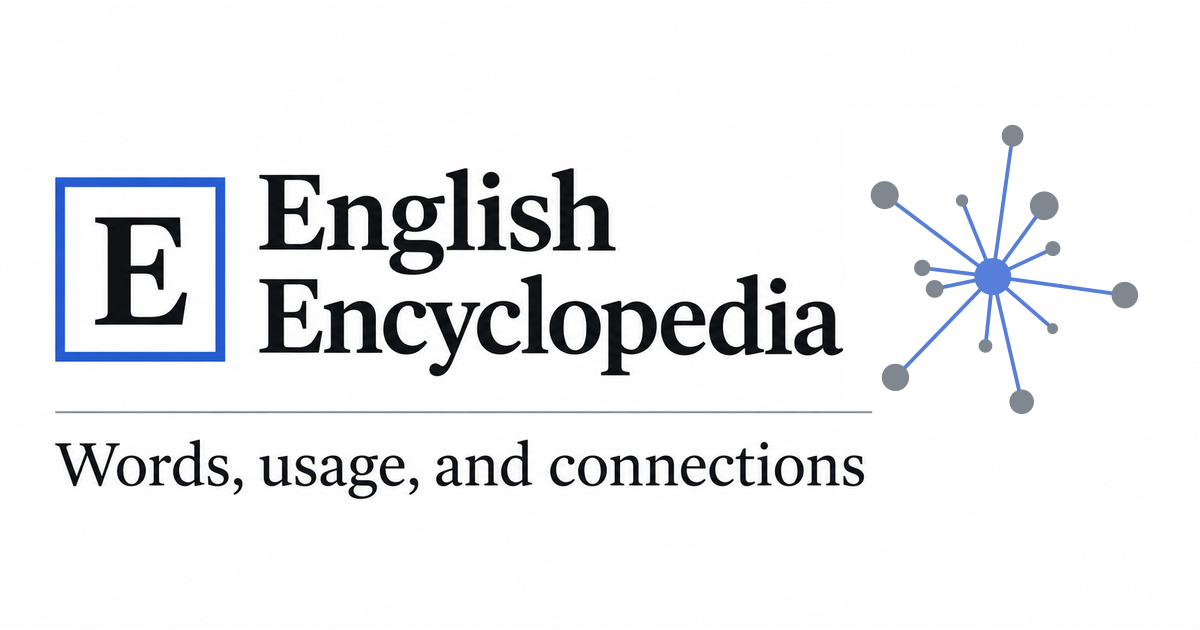
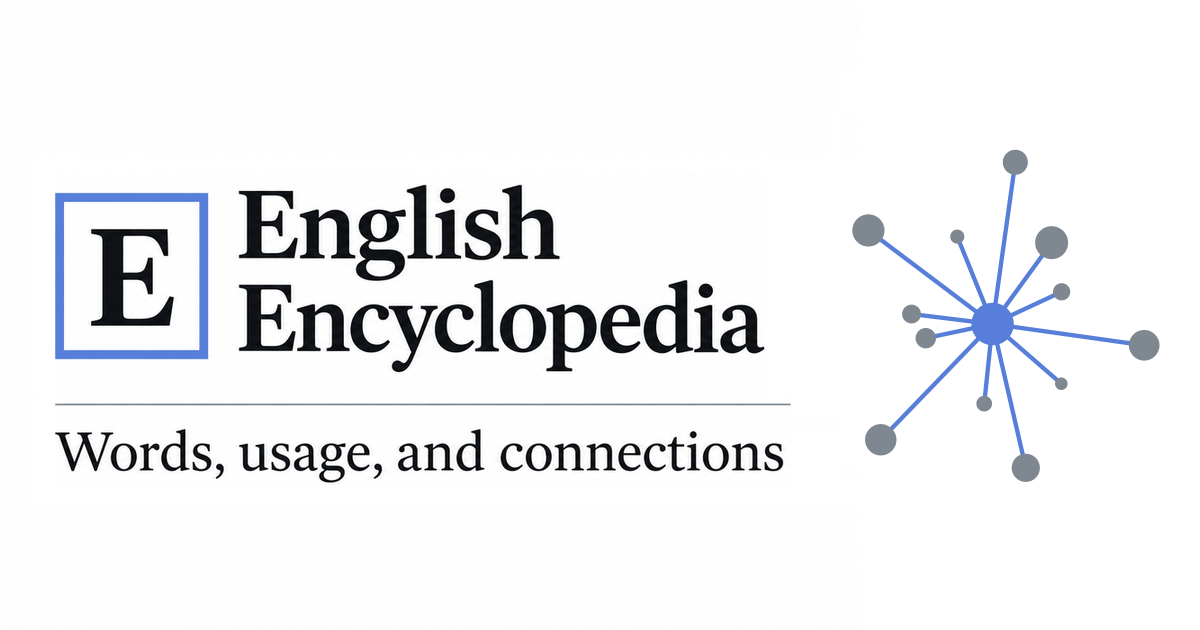
Refine OGP layout with a centered graph and matching blue frame

Changed region(s): [[0.0308, 0.2714, 0.7092, 0.6032], [0.0308, 0.181, 0.9867, 0.8143], [0.7092, 0.2714, 0.7708, 0.3921]]

diff --git a/site/docs/og-image.md b/site/docs/og-image.md
@@ -2,10 +2,17 @@
 
 The shared social image is [english-encyclopedia-og.png](../custom/english-encyclopedia-og.png), an opaque 1200 × 630 PNG. The original editorial card was created with imagegen. Its right-hand network has been replaced with the approved radial graph: one blue center, twelve gray nodes, five long spokes and seven shorter spokes. All nodes connect directly to the center.
 
-The graph uses flat blue `#577fd9` and gray `#7f8791` on white, without gradients,
-highlights, shadows or extrusion. The existing text, boxed E and divider are
-preserved. Imagegen supplied the edit study; final compositing used the exact
-vector graph geometry and original typography to avoid changing letter shapes.
+The graph and square around E share blue `#577fd9`; the outer nodes use gray
+`#7f8791`. The card stays white and flat, without gradients, highlights, shadows
+or extrusion. Imagegen supplied the edit studies; final compositing used the
+exact vector graph geometry and original typography to avoid changing letter
+shapes.
+
+The selected layout enlarges the radial graph by about 15% and centers its
+visible bounds vertically (149px above, 148px below). The complete left block
+(boxed E, title, divider and tagline) is 10% smaller, with its left edge at x=55.
+The original line breaks and relative spacing are preserved. The card remains
+an opaque 1200 × 630 PNG.
 
 The custom head in `quartz.ts` uses this image for Open Graph and Twitter large-image cards, with absolute URLs derived from the configured base URL. Root sites and GitHub Pages repository subpaths are supported. Dimensions, PNG type, and matching alt text are included; duplicate/default image tags are removed. The reviewed image hash lives in `trusted-site-assets.json`. No upstream Quartz asset is overwritten.
 
@@ -32,7 +39,7 @@ The final 1200 × 630 opaque PNG is 421,705 bytes. Its text and full-size export
 
 The normal collection build passed its output audit and all seven existing output tests. A live preview request returned the image with HTTP 200 and image/png, with bytes matching the source; homepage metadata points to the correct configured absolute image URL. No production-browser test suite was rerun for this static-image/head-only change. No remote push or public deployment was performed. Source vault data and concurrent publication/graph workflow edits were left untouched by this task.
 
-## Radial graph revision
+## Original radial graph revision
 
 The edit request was to change only the right-hand network to the new radial
 mark, preserving all text, layout and the white background. The vector finish
